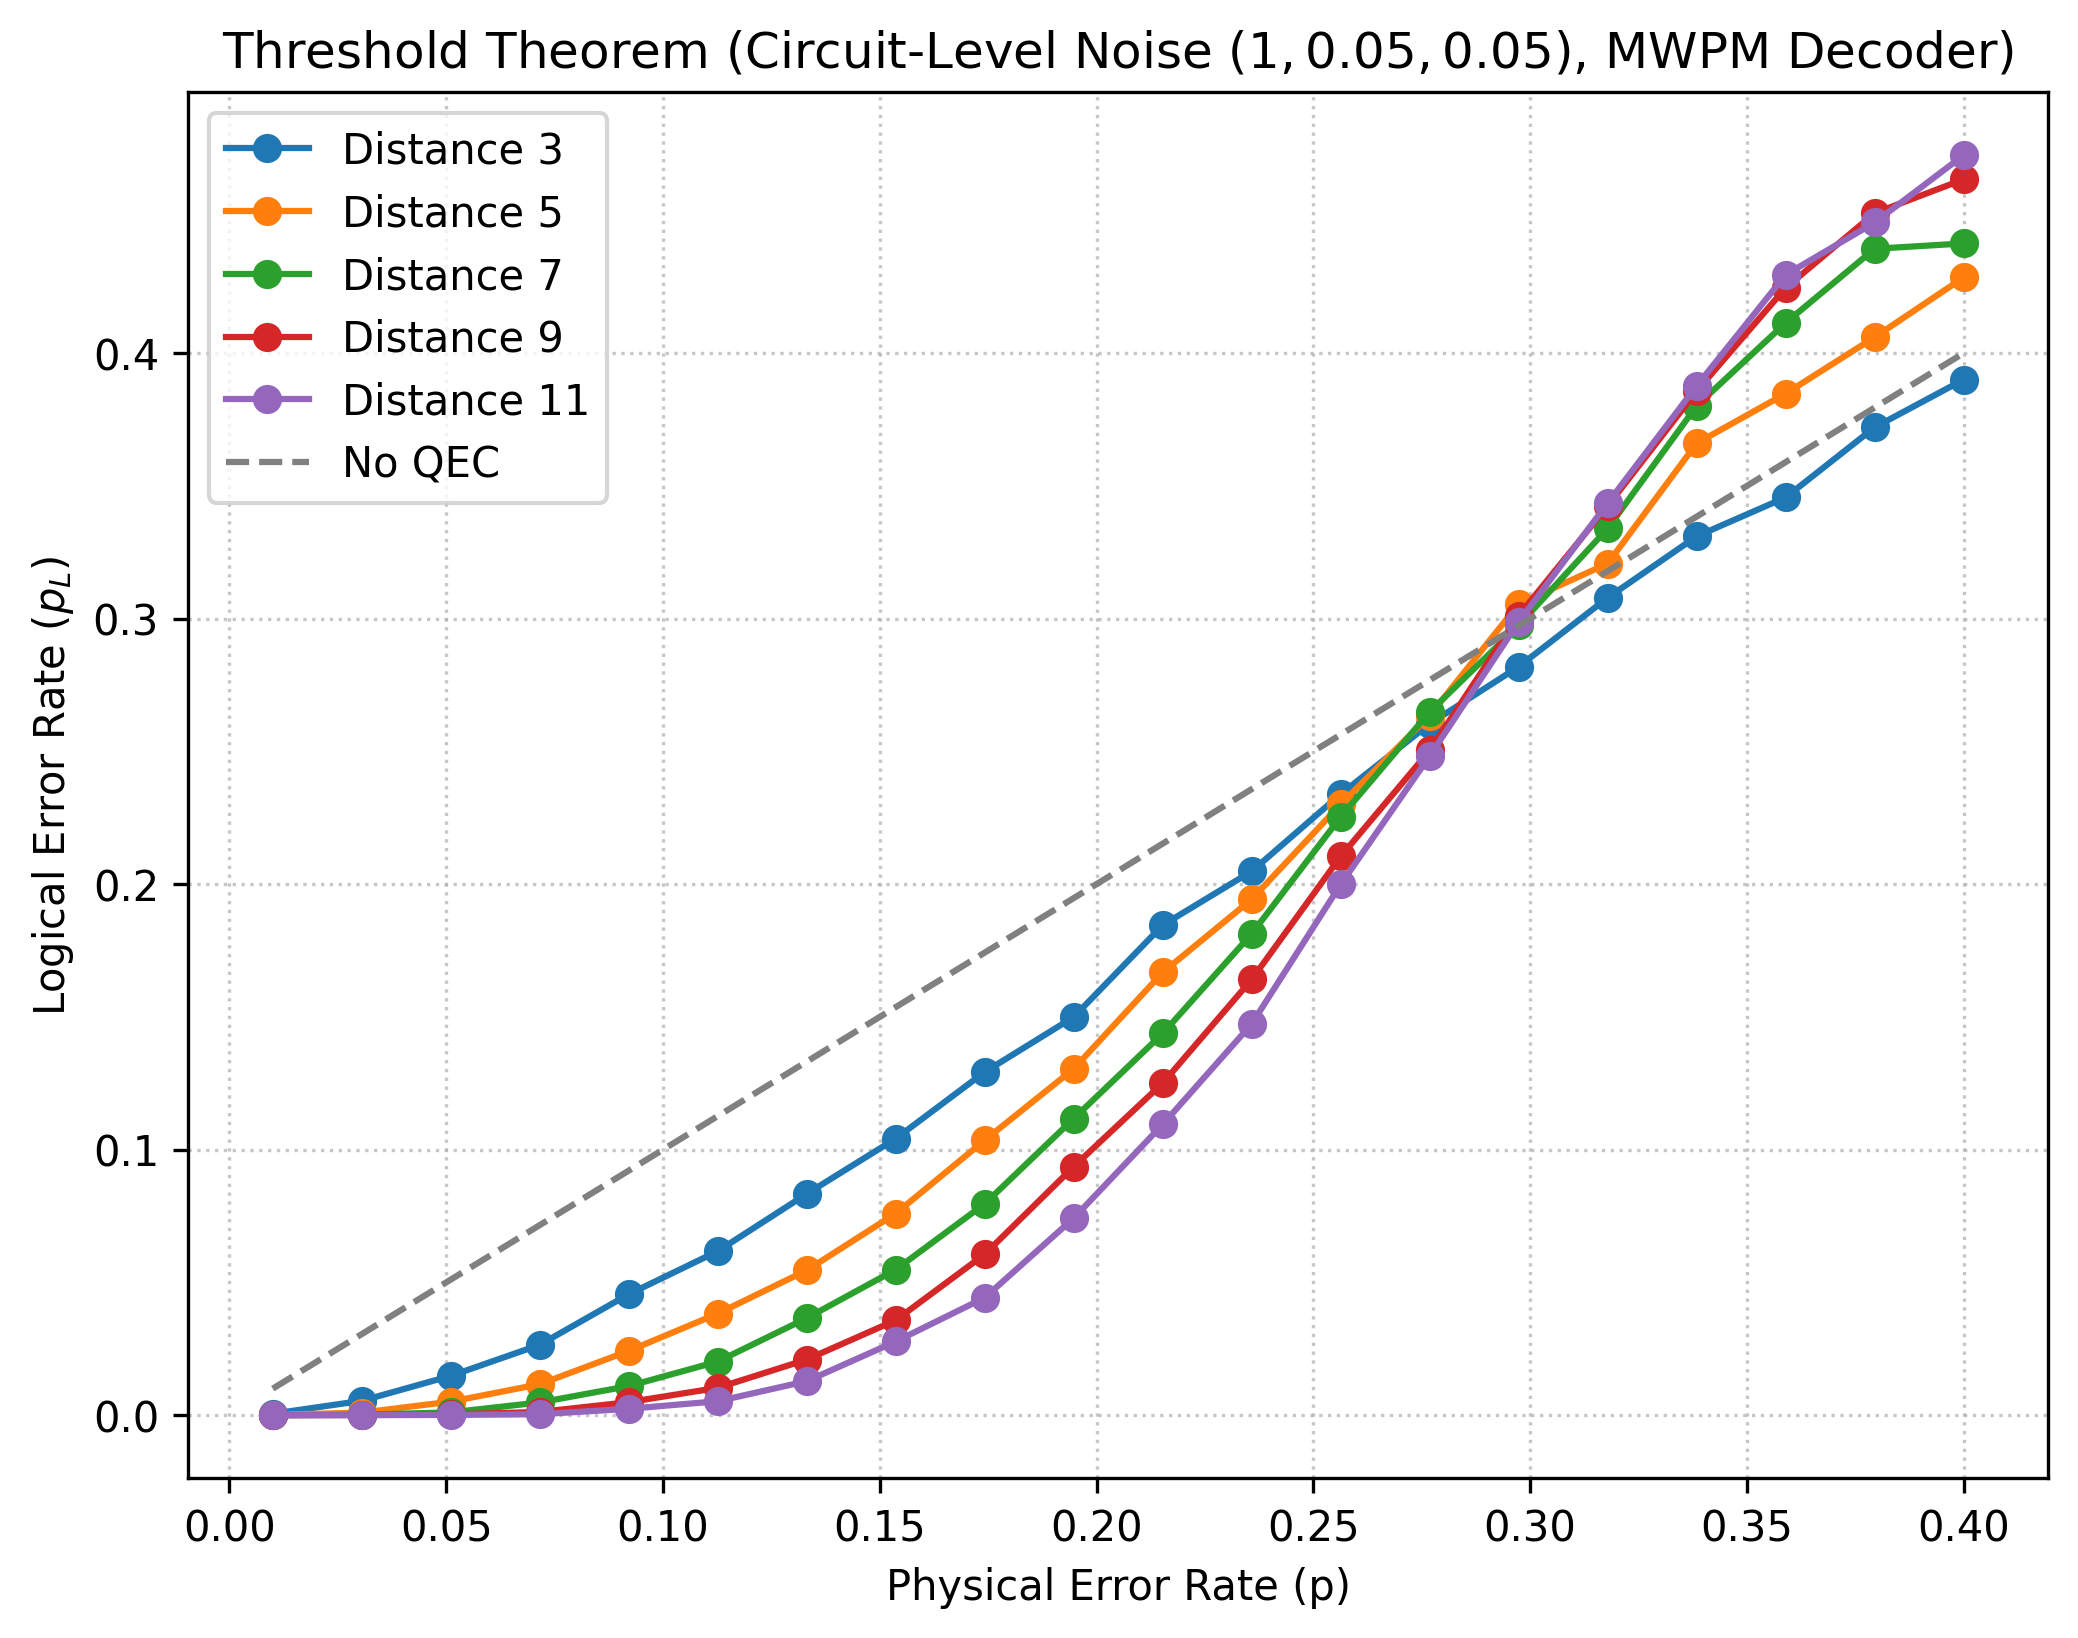
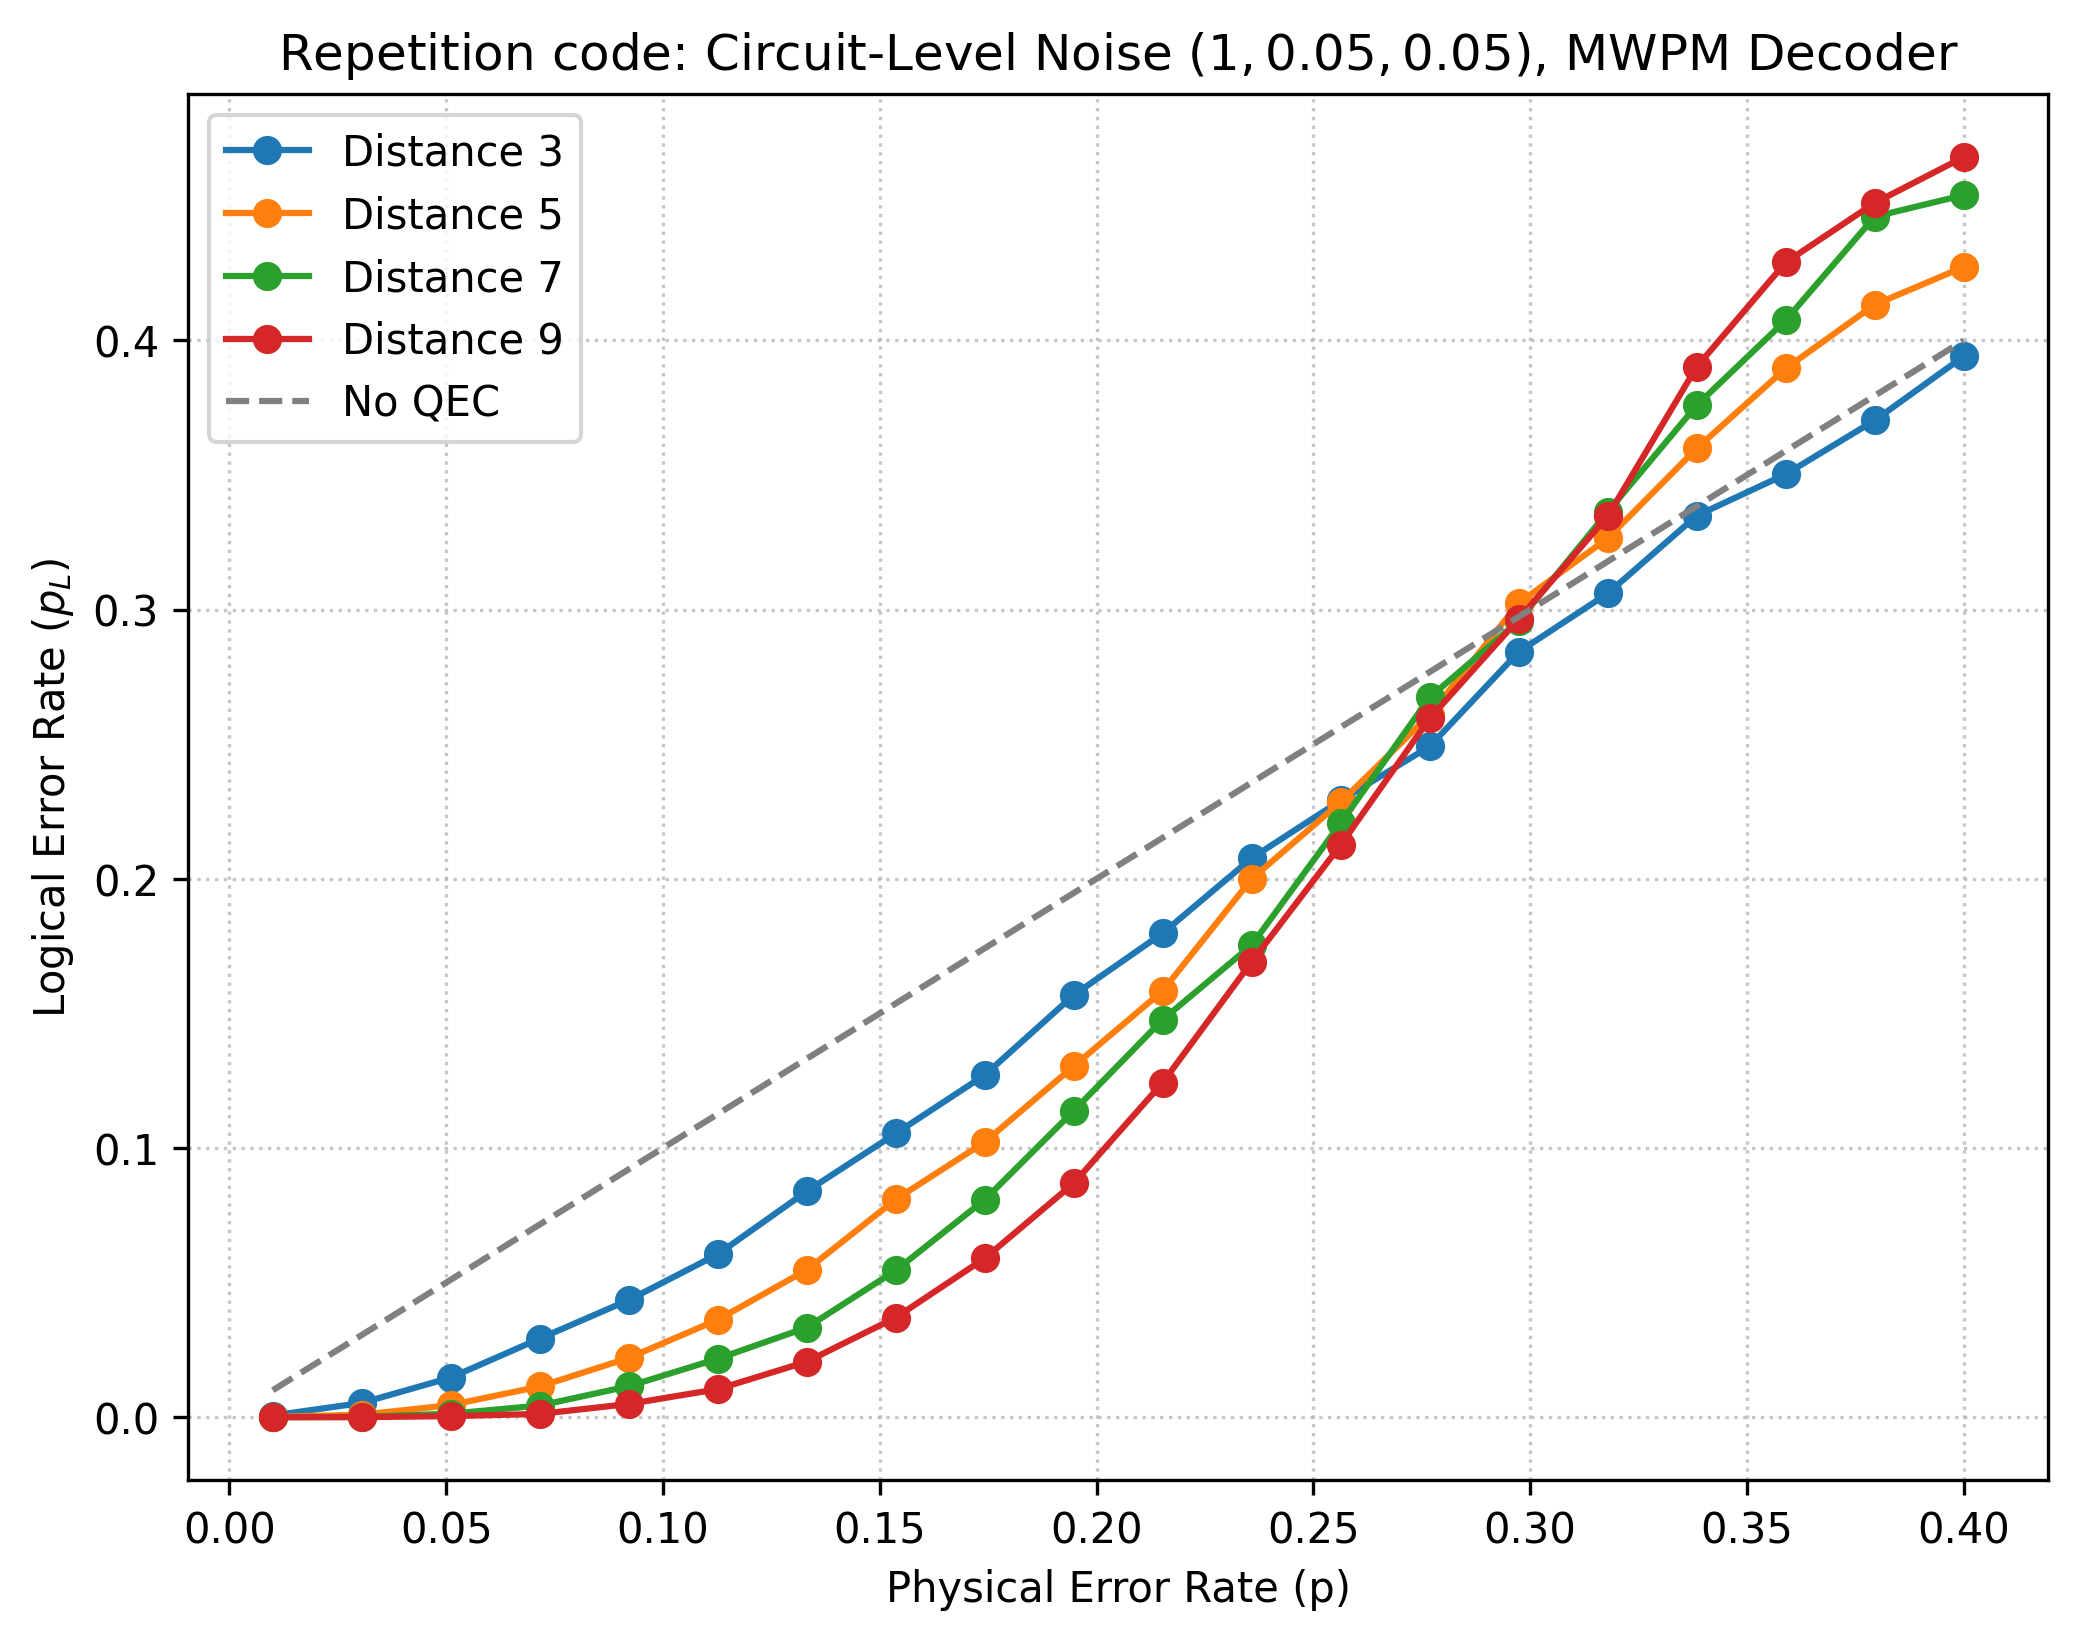
Simulating a circuit with cirq and sinter. Incorpoating a requirements file

diff --git a/src/chapter_5/s8_beyond_stim.py b/src/chapter_5/s8_beyond_stim.py
@@ -1,0 +1,144 @@
+import matplotlib.pyplot as plt
+import numpy as np
+import os
+import multiprocessing
+
+import cirq
+import stimcirq
+import sinter
+import stim
+
+
+def build_rep_code_cirq(distance: int, p: float) -> stim.Circuit:
+    """
+    Builds a fully functional 1D Bit-Flip Repetition Code using Cirq.
+    This demonstrates injecting noise and manually placing stimcirq annotations.
+    """
+    #BEGIN S8_SNIPPET_CIRQ_BUILDER
+    qubits = cirq.LineQubit.range(2 * distance - 1)
+    circuit = cirq.Circuit()
+    rounds = distance
+    
+    for r in range(rounds):
+        # Add noise to data qubits
+        # the NEW_THEN_INLINE strategy is used to prevent the noise annotation to be pushed to the earliest
+        # possible step, which would result in an incorrect simulation.
+        circuit.append([cirq.depolarize(p).on(q) for q in qubits[0::2]], strategy=cirq.InsertStrategy.NEW_THEN_INLINE)
+        
+        # CNOTs to compute parity -- First qubit is a data qubit. Then we alternate ancillas and qubits. Each ancilla
+        # is connected to two data qubits, one on each side.
+        # Odd qubits are ancillas, even qubits are data qubits.
+        circuit.append([cirq.CNOT(qubits[i-1], qubits[i]) for i in range(1, 2*distance-1, 2)], strategy=cirq.InsertStrategy.NEW_THEN_INLINE)
+        circuit.append([cirq.CNOT(qubits[i+1], qubits[i]) for i in range(1, 2*distance-1, 2)], strategy=cirq.InsertStrategy.NEW_THEN_INLINE)
+        
+        # Measure ancillas (with explicit string keys for stimcirq tracking)
+        circuit.append([cirq.measure(qubits[i], key=f'm_{r}_{i}') for i in range(1, 2*distance-1, 2)], strategy=cirq.InsertStrategy.NEW_THEN_INLINE)
+        
+        # Define Detectors using stimcirq.DetAnnotation
+        det_ops = []
+        for i in range(1, 2*distance-1, 2):
+            key = f'm_{r}_{i}'
+            if r == 0:
+                det_ops.append(stimcirq.DetAnnotation(parity_keys=[key], coordinate_metadata=(i, r)))
+            else:
+                prev_key = f'm_{r-1}_{i}'
+                det_ops.append(stimcirq.DetAnnotation(parity_keys=[key, prev_key], coordinate_metadata=(i, r)))
+        circuit.append(det_ops, strategy=cirq.InsertStrategy.NEW_THEN_INLINE)
+                
+        # Reset ancillas for the next round
+        circuit.append([cirq.reset(qubits[i]) for i in range(1, 2*distance-1, 2)], strategy=cirq.InsertStrategy.NEW_THEN_INLINE)
+
+    # Final Data measurement (of data qubits)
+    circuit.append([cirq.measure(qubits[i], key=f'd_{i}') for i in range(0, 2*distance-1, 2)], strategy=cirq.InsertStrategy.NEW_THEN_INLINE)
+        
+    # Final Detectors (comparing data parity to last ancilla measurement)
+    # For each ancilla we add the ancilla measurement from prior round and the measurement of the two data qubits that it is connected to.
+    final_det_ops = []
+    for i in range(1, 2*distance-1, 2):
+        ancilla_key = f'm_{rounds-1}_{i}'
+        data_left = f'd_{i-1}'
+        data_right = f'd_{i+1}'
+        final_det_ops.append(stimcirq.DetAnnotation(
+            parity_keys=[ancilla_key, data_left, data_right],
+            coordinate_metadata=(i, rounds)
+        ))
+    circuit.append(final_det_ops, strategy=cirq.InsertStrategy.NEW_THEN_INLINE)
+        
+    # Define Logical Observable
+    # The observable is simply the first data qubit
+    circuit.append(stimcirq.CumulativeObservableAnnotation(
+        parity_keys=[f'd_0'],
+        observable_index=0
+    ), strategy=cirq.InsertStrategy.NEW_THEN_INLINE)
+    #END S8_SNIPPET_CIRQ_BUILDER
+    
+    # Compile to ultra-fast stim circuit
+    return stimcirq.cirq_circuit_to_stim_circuit(circuit)
+
+
+def sample_sinter_simulation(distances=None, physical_errors=None, num_workers=8, max_shots=1000000, max_errors=500):
+    """
+    Demonstrates how to run a large-scale parallel simulation using Sinter.
+    """
+    print("\n--- Sinter Large-Scale Simulation Demo ---")
+    #BEGIN S8_SNIPPET_SINTER
+    # Define the tasks we want Sinter to simulate
+    tasks = []
+    if distances is None:
+        distances = [3, 5, 7]
+    if physical_errors is None:
+        physical_errors = np.linspace(0.01, 0.4, 20)
+    
+    for d in distances:
+        for p in physical_errors:
+            circuit = build_rep_code_cirq(distance=d, p=p)
+            tasks.append(
+                sinter.Task(
+                    circuit=circuit,
+                    json_metadata={'d': d, 'p': p}
+                )
+            )
+            
+    # Collect statistics using Sinter in parallel
+    print("Starting Sinter parallel sampling...")
+    stats = sinter.collect(
+        num_workers=num_workers,
+        tasks=tasks,
+        decoders=['pymatching'],
+        max_shots=max_shots,
+        max_errors=max_errors,
+        print_progress=True
+    )
+    #END S8_SNIPPET_SINTER
+    return stats, distances, physical_errors
+
+def plot_sinter_simulation(stats, distances, physical_errors):
+    """
+    Plots the results returned by sample_sinter_simulation.
+    """
+    # Plot the results
+    plt.figure(figsize=(8, 6))
+    for d in distances:
+        # Filter stats for this distance
+        d_stats = [s for s in stats if s.json_metadata['d'] == d]
+        # Sort by physical error rate so matplotlib draws the line continuously
+        d_stats.sort(key=lambda s: s.json_metadata['p'])
+        
+        p_rates = [s.json_metadata['p'] for s in d_stats]
+        l_rates = [s.errors / s.shots if s.shots > 0 else 0 for s in d_stats]
+        plt.plot(p_rates, l_rates, marker='o', label=f'Distance {d}')
+        
+    plt.plot(physical_errors, physical_errors, linestyle='--', color='gray', label='No QEC')
+    plt.xlabel('Physical Error Rate (p)')
+    plt.ylabel('Logical Error Rate ($p_L$)')
+    plt.title('Sinter Simulation: Repetition Code Performance')
+    plt.legend()
+    plt.grid(True, linestyle=':', alpha=0.7)
+
+if __name__ == "__main__":
+    # For standalone execution, just validate the script with a quick run
+    print("Validating Sinter setup with a small text run...")
+    stats, dists, errs = sample_sinter_simulation(distances=[3], physical_errors=[0.01, 0.1], max_shots=10000, num_workers=1)
+    print("\nSimulation successful! Results:")
+    for s in stats:
+        print(s)